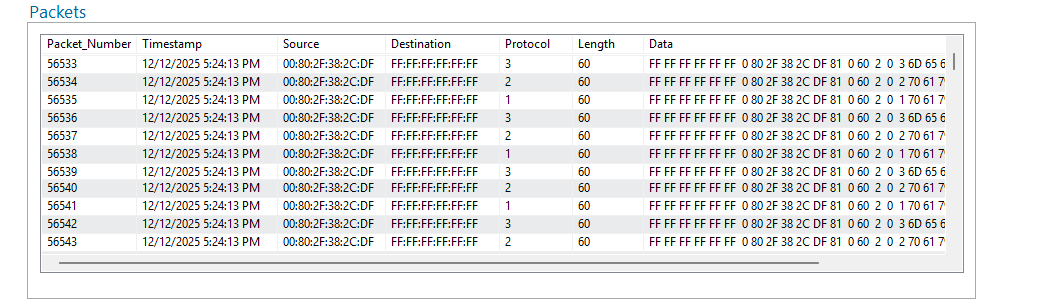
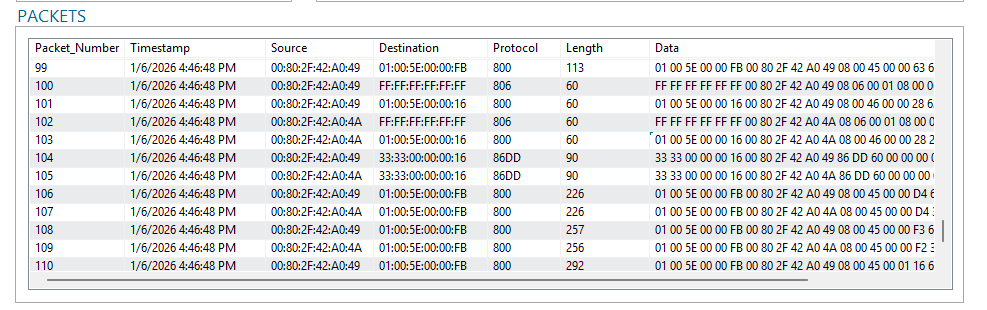
updated images in readme to display 2 byte padding

Changed region(s): [[0.0, 0.0, 0.9726, 1.0], [0.3343, 0.0, 0.9726, 0.0298]]

diff --git a/src/labview/auto-eth/README.md b/src/labview/auto-eth/README.md
@@ -108,7 +108,7 @@ If the table is not paused, the table will auto scroll past the selected packet.
 
 ## Testing the plugin
 
-A VI, Ethernet Packet Generator for Testing, exists for putting data into the bus, allowing the user to test the plugin
+A VI, Automotive Ethernet Bus Monitor Packet Generator.vi, exists for putting data into the bus, allowing the user to test the plugin
 This VI has the functionality to read and write the TC10 status if enabled, as well as send either a single stream of packets, or 3 different streams of packets.  
 The first functionality is the multi Packet stream, allowing the user to send 3 different packets, varying protocol and message, sequentially.  
 